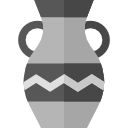
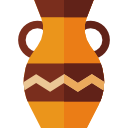
Replaced the unused jar image

diff --git a/game.py b/game.py
@@ -219,9 +219,7 @@ class Game:
 
             if not self._has_won and not self._game_over:
                 draw_labels(self._WIN, lives_label, part_label, round_label)
-
                 self.manage_jars_display()
-
                 if not self._key_drawn and not self._snake_drawn:
                     self._finger.draw(self._WIN)
                 elif self._key_drawn:
@@ -247,13 +245,13 @@ class Game:
 
             if not self._game_over:
                 draw_labels(self._WIN, lives_label, round_label)
-
                 self.manage_jars_display()
 
-                self._finger.draw(self._WIN)
-                if self._key_drawn:
+                if not self._key_drawn and not self._snake_drawn:
+                    self._finger.draw(self._WIN)
+                elif self._key_drawn:
                     self.handle_key(True)
-                elif self._snake_drawn:
+                else:
                     self.handle_snake()
             else:
                 self.game_over_screen()
